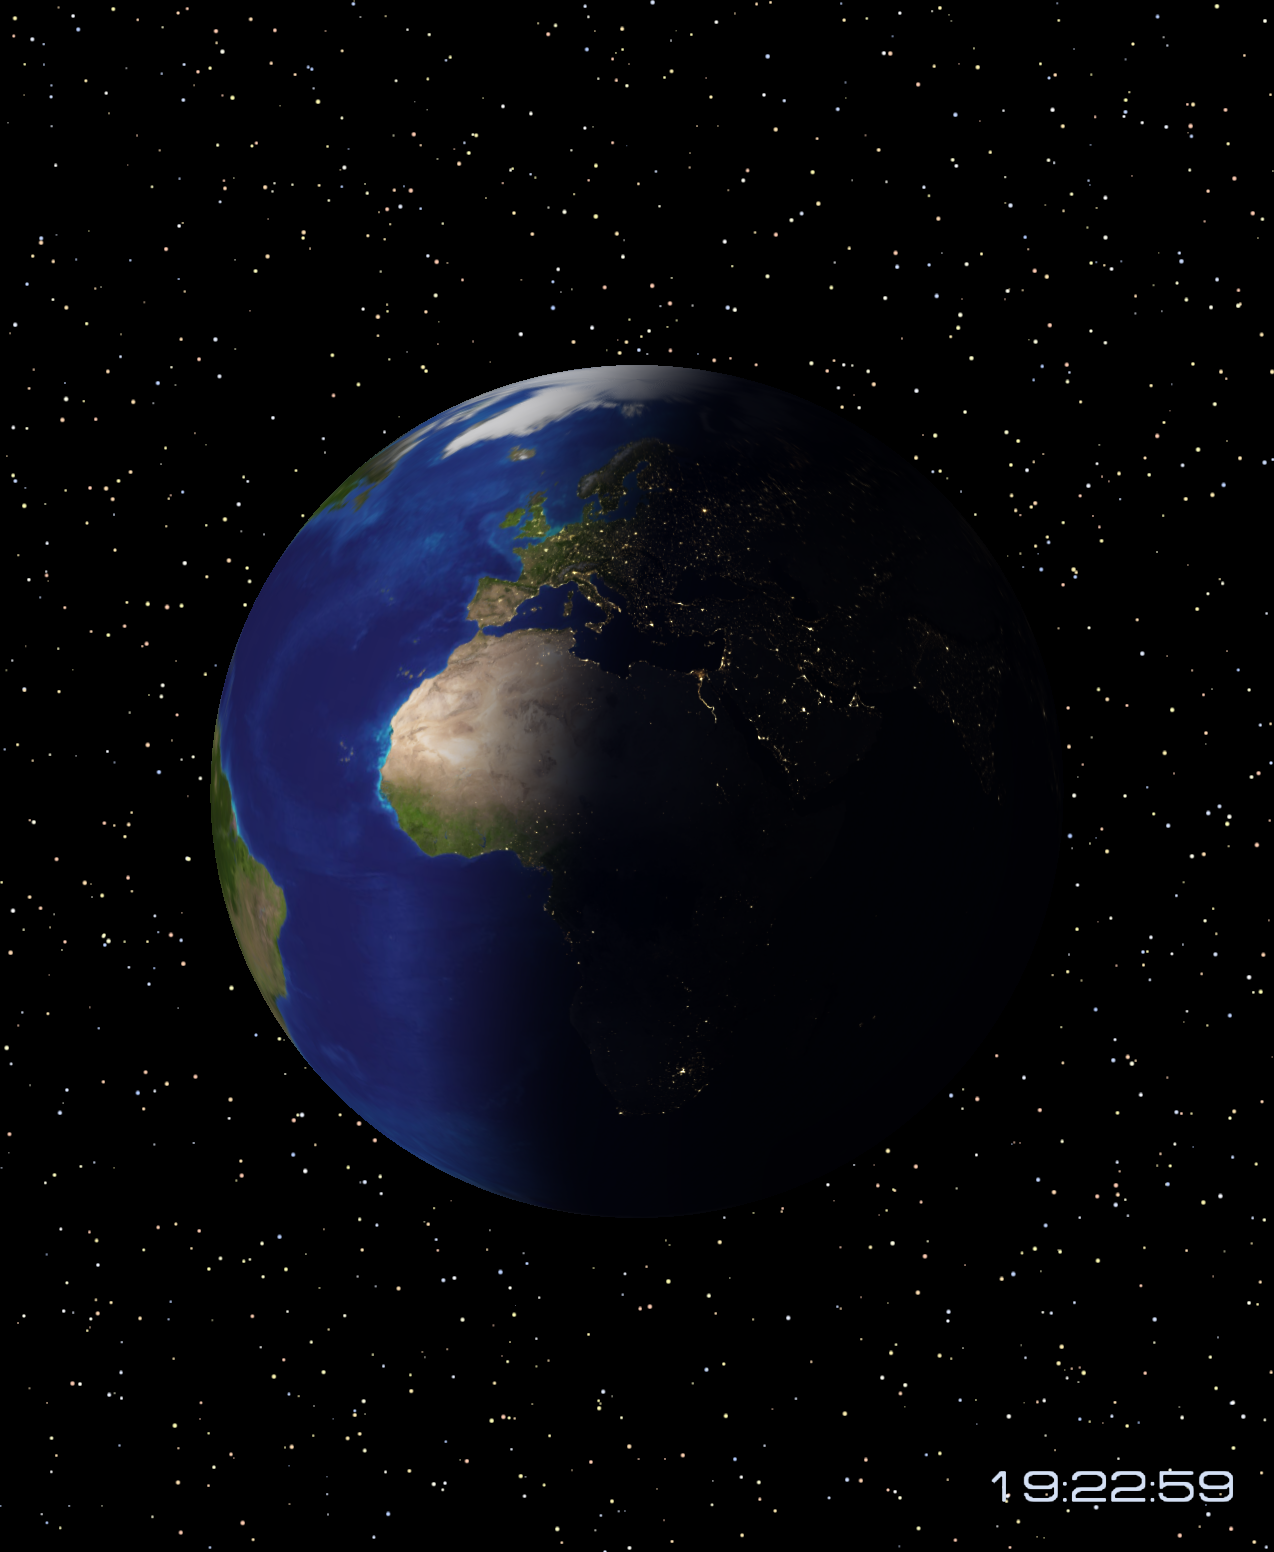
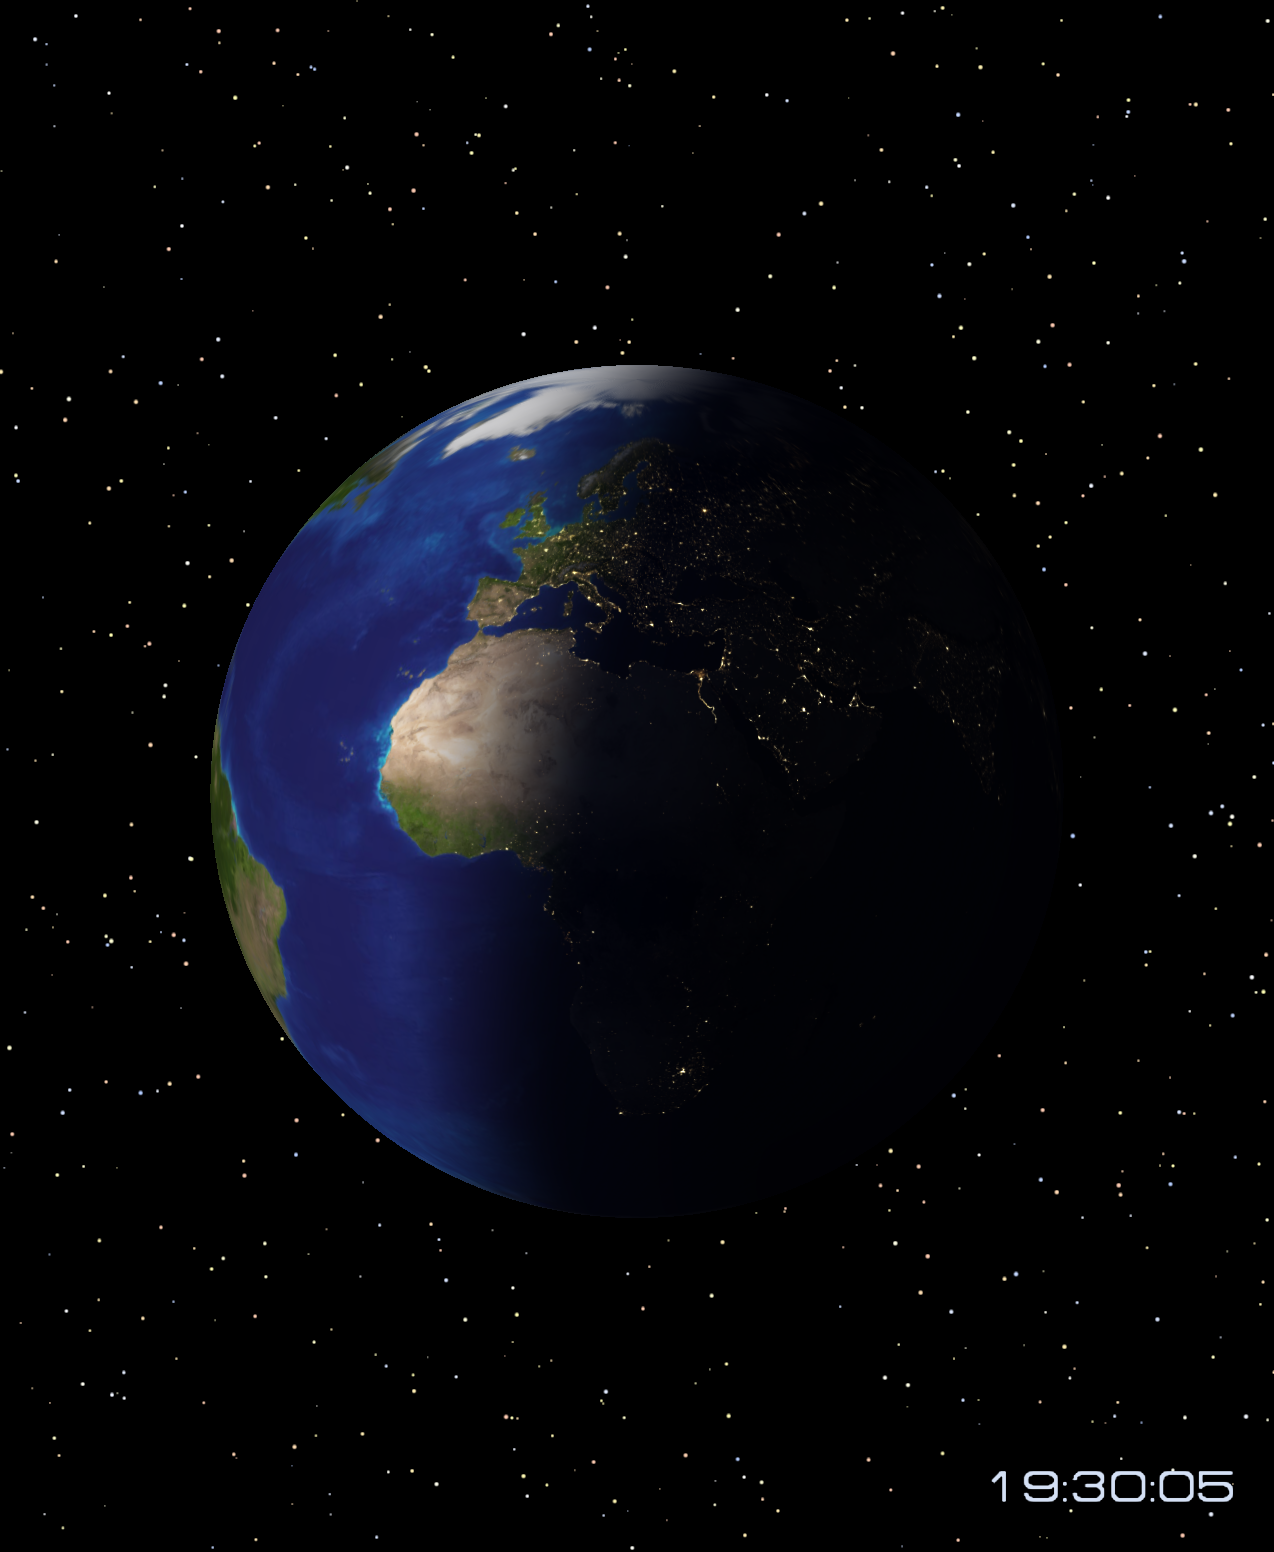
Reduce and accelerate background stars

Changed region(s): [[0.9184, 0.9278, 0.9796, 0.9588], [0.8571, 0.9278, 0.8878, 0.9897]]

diff --git a/src/main.c b/src/main.c
@@ -431,12 +431,15 @@ static void scene(void) {
     float scale = height / 1000.f;
     /* The original GLScene sky dome uses this astronomical point catalogue.
        Equirectangular screen projection gives its rotation a seamless horizontal wrap. */
-    float star_offset = fmodf(now * width / 450.f, width);
+    float star_offset = fmodf(now * width / 300.f, width);
+    int visible_star = 0;
     for (int i = 0; i < star_count; i++) {
         Star *s = &stars[i];
-        /* Keep the brighter fifth of the original catalogue. The full naked-eye
-           data set is overpowering at wallpaper scale. */
+        /* Keep the brighter fifth of the catalogue, then render every other
+           candidate to keep the background sparse. */
         if (s->magnitude > 2.5f)
+            continue;
+        if (visible_star++ & 1)
             continue;
         float x = fmodf(s->ra / 360.f * width + star_offset, width);
         float y = (90 - s->dec) / 180.f * height;

diff --git a/README.md b/README.md
@@ -13,18 +13,6 @@ Plugin ID: `spacexrace.worldclock`
 omarchy plugin add https://github.com/spaceXrace/omarchy-world-clock.git --enable
 ```
 
-The first enable builds the native renderer into
-`~/.cache/spacexrace.worldclock`; the git-managed plugin checkout stays clean
-and can be updated normally. A stock Omarchy installation usually has the
-required build stack. If the first build reports missing dependencies, install
-them once:
-
-```sh
-omarchy pkg add gcc make pkgconf wayland wayland-protocols libglvnd libpng glib2
-omarchy plugin disable spacexrace.worldclock
-omarchy plugin enable spacexrace.worldclock
-```
-
 ## Toggle and startup
 
 Open the Omarchy menu and choose:
@@ -67,7 +55,7 @@ the existing static wallpaper is revealed immediately.
 ## Behavior
 
 - Earth rotation period: 7.5 minutes
-- Background star drift period: 7.5 minutes
+- Background star drift period: 5 minutes
 - Default cap: 30 fps
 - Coverage pause threshold: 95% of the target output
 - Default output: the focused display at launch
